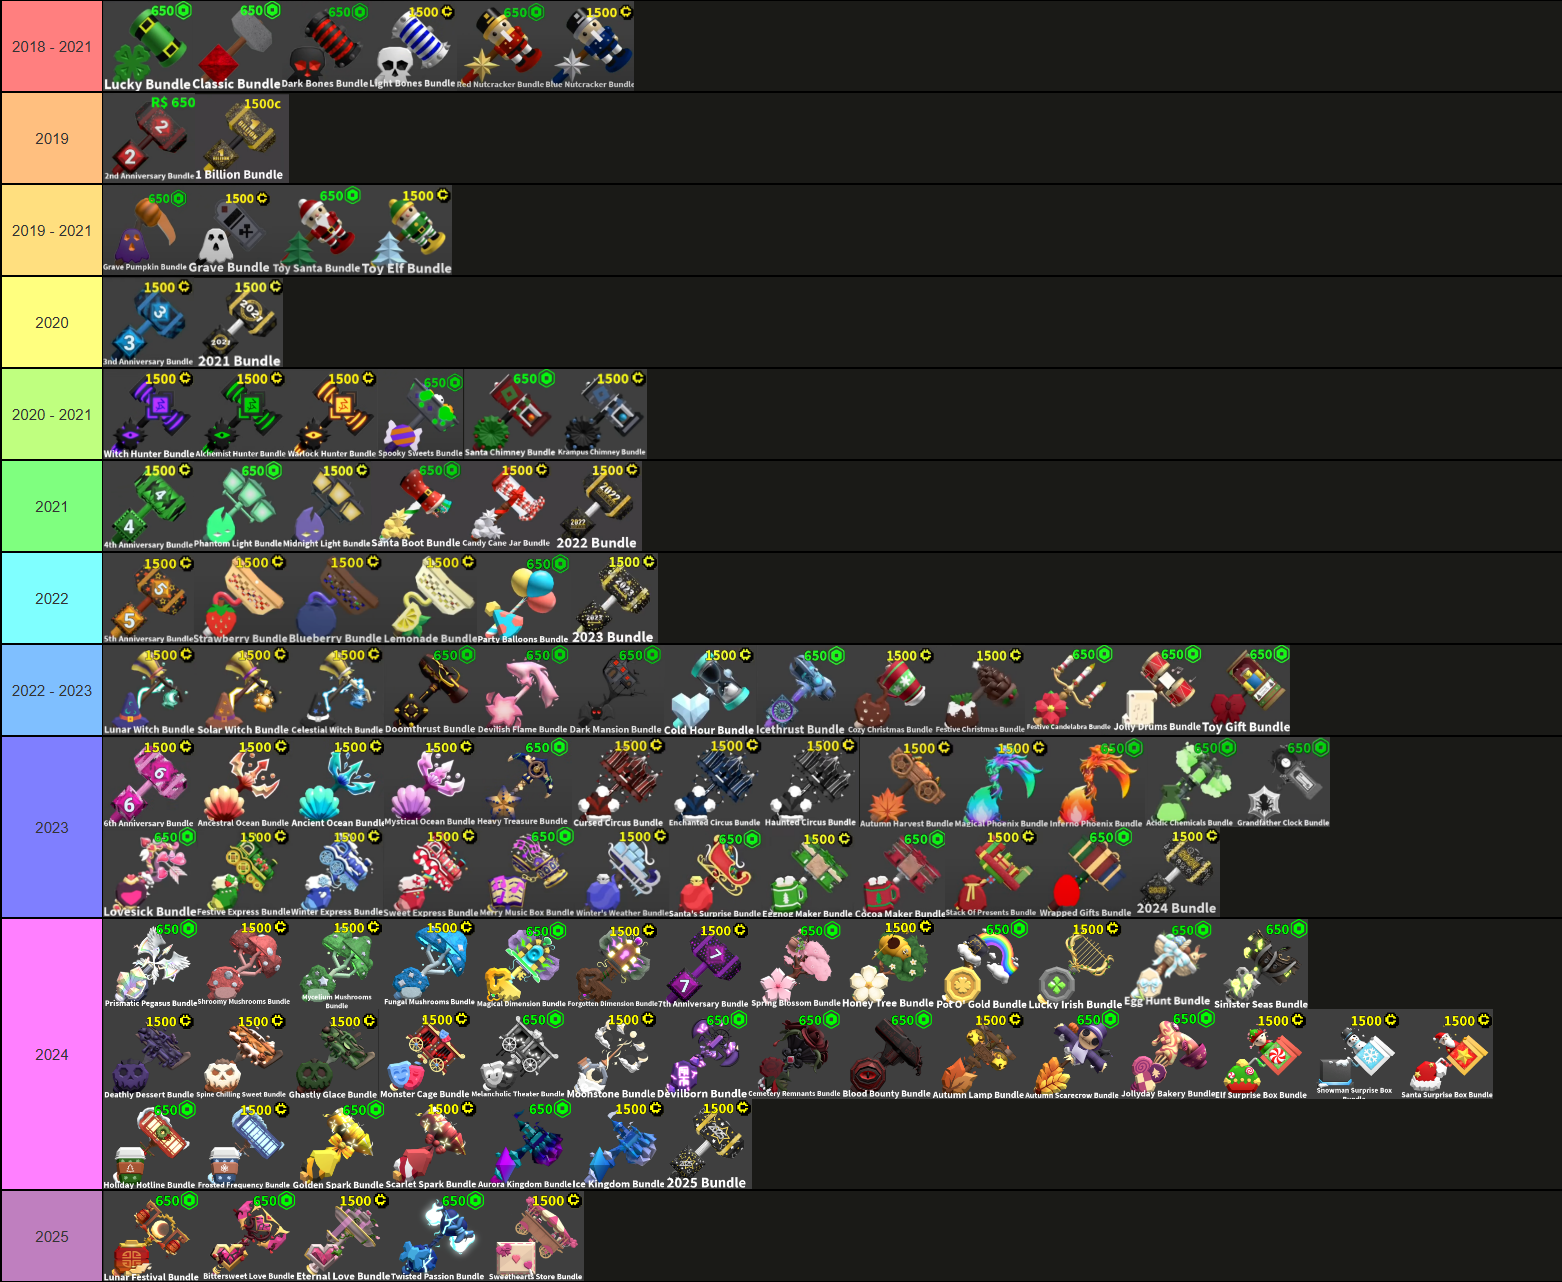
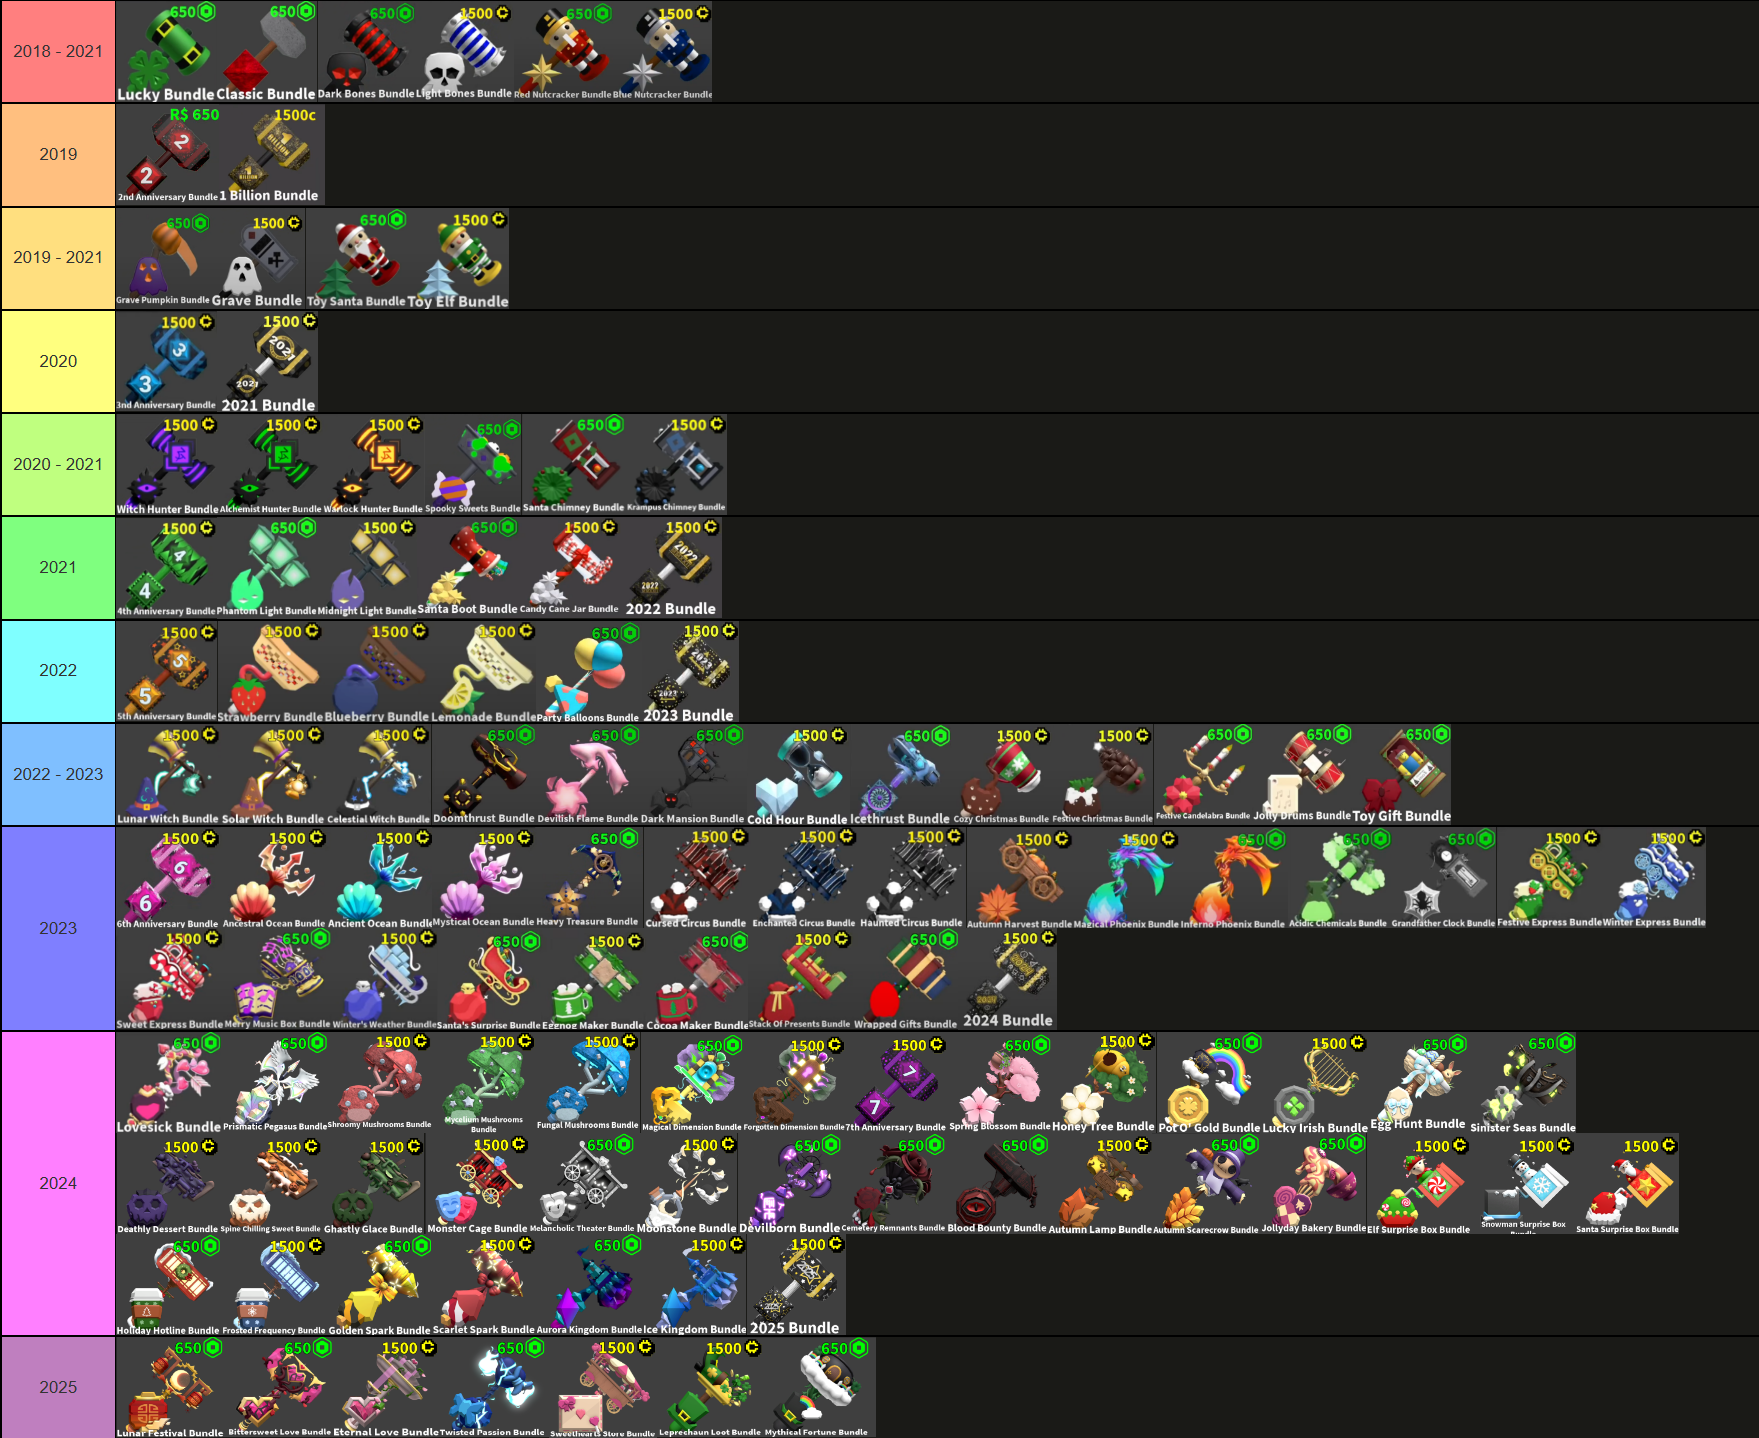
Add files via upload

diff --git a/index.html b/index.html
@@ -19,11 +19,11 @@
     <body style="font-family: 'Montserrat', sans-serif; font-weight: 400;background-color: #0e0e0e;color: #ffffff;">
         <h1 style="text-align: center;">Rook's FTF Values</h1>
         <h4 style="text-align: center;">| <a href="https://fleethefacilityvalues.github.io/UseGuide/" style="color:red;">Use Guide</a> | <a href="https://fleethefacilityvalues.github.io/PictureList/" style="color:#7fbfff;">Picture Lists</a> | <a href="https://fleethefacilityvalues.github.io/FAQ/" style="color: #9966cc;">FAQ</a> |</h4>
-        <h4 style="text-align: center;">| <a href="https://fleethefacilityvalues.github.io/Elusives/" style="color: #ffaa00;">Elusives</a> | <a href="https://legendaries.ftf-values.com/" style="color:yellow;">Legendaries</a> | <a href="https://fleethefacilityvalues.github.io/Epics/" style="color: #ff00ff;">Epics</a> | <a href="https://fleethefacilityvalues.github.io/Rares/" style="color: rgb(0, 255, 255);">Rares</a> | <a href="https://fleethefacilityvalues.github.io/Commons/" style="color: #00ff00;">Commons</a> |</h4>
+        <h4 style="text-align: center;">| <a href="https://fleethefacilityvalues.github.io/Elusives/" style="color: #ffaa00;">Elusives</a> | <a href="https://fleethefacilityvalues.github.io/Legendaries/" style="color:yellow;">Legendaries</a> | <a href="https://fleethefacilityvalues.github.io/Epics/" style="color: #ff00ff;">Epics</a> | <a href="https://fleethefacilityvalues.github.io/Rares/" style="color: rgb(0, 255, 255);">Rares</a> | <a href="https://fleethefacilityvalues.github.io/Commons/" style="color: #00ff00;">Commons</a> |</h4>
         <hr>
         <h2 style="text-align: center;"><b><font size="7" color="#7fbfff"><u>Picture Lists</font></u></b></h2>
-        <h3 style="text-align: center;"><b><u><font size="5">Last Updated: March 21st</font></u></b></h2>
-        <h6 style="text-align: center;"><b><font size="3"><a href="members.html">Current Picture Lists Staff</a></font></b></h6></u></b></h6>
+        <h3 style="text-align: center;"><b><u><font size="5">Last Updated: February 21st</font></u></b></h2>
+        <h6 style="text-align: center;"><b><font size="3"><a href="members.html">Current Picture List Staff</a></font></b></h6></u></b></h6>
         <hr>
         <h2 style="text-align: center;"><b><font size="6" color="#ffff00"><u>Legendaries</u></font> & <font size="6" color="#ffaa00"><u>Elusives</font></u></b></h2>
         <p style="text-align: center;"><img src="hvl.png" width="80%" height="auto"></p><br>
@@ -42,6 +42,7 @@
         <hr>
         <h2 style="text-align: center;"><b><font size="7" color="#ffffff"><u>Bundles</font></u></b></h2>
         <p style="text-align: center;"><img src="allbundles.png" width="80%" height="auto"></p><br>
+        <p style="text-align: center; font-size: 24px"><b><u>Small Change:</u> Recatagorized "Lovesick" Bundle from Christmas 2023 to Valentines 2024</b></p><br>
         <hr>
         <h2 style="text-align: center;"><b><font size="7" color="#ffffff"><u>Crates</font></u></b></h2>
         <h2 style="text-align: center;"><b><font size="6" color="#ffffff"><u>Anniv</u></font><font size="6" color="#ff0000"><u>ersary</u></font></u></b></h2>
